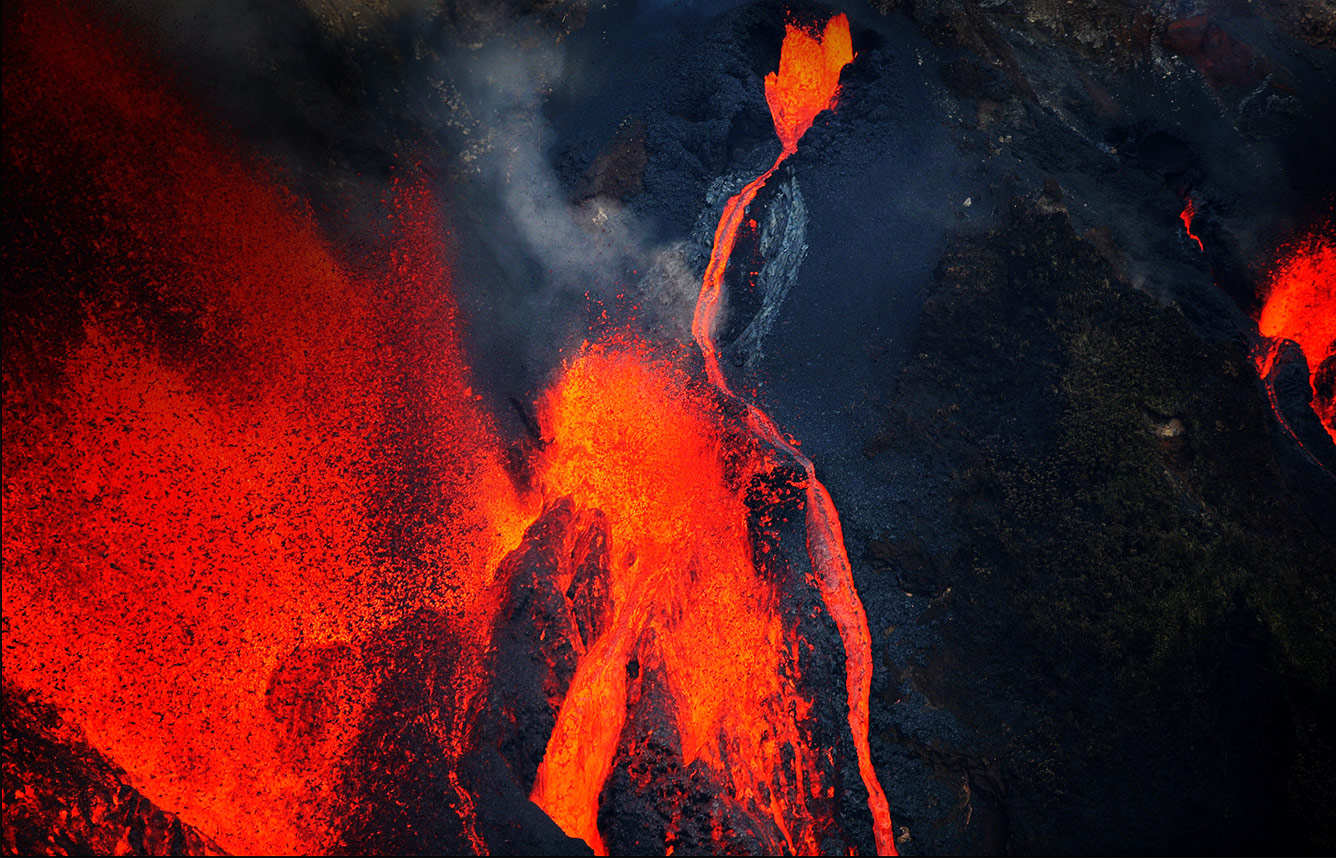
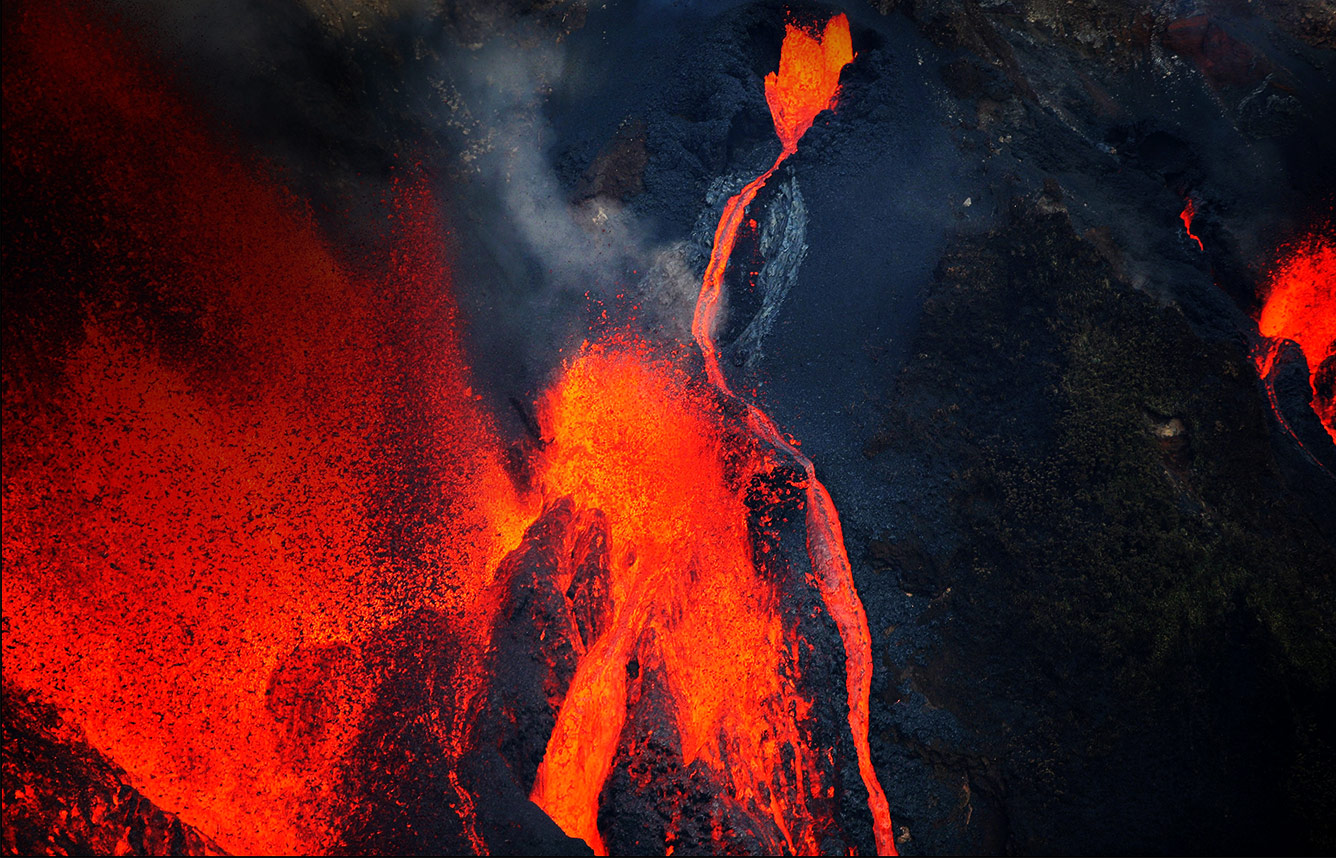
darkening fire image and adding links

Changed region(s): [[0.0, 0.2121, 0.3376, 0.6667]]

diff --git a/big-idea-portfolio/generosity-burnout/for-qa/index.html b/big-idea-portfolio/generosity-burnout/for-qa/index.html
@@ -457,7 +457,7 @@ h2 {
 			<!-- tile 1 -->
 			<div class="flex-col justify-between">
 				<div>
-					<h2><a href="https://..." target="_blank">&#8220;Collaborative Overload&#8221;
+					<h2><a href="https://hbr.org/2016/01/collaborative-overload" target="_blank">&#8220;Collaborative Overload&#8221;
 						<svg version="1.1" class="summary-icon" xmlns="http://www.w3.org/2000/svg"xmlns:xlink="http://www.w3.org/1999/xlink" x="0px" y="0px" viewBox="0 0 44 34" style="enable-background:new 0 0 44 34;" xml:space="preserve">
 							<polygon points="26.4,0.6 23.7,3.6 36,15 0,15 0,19 36,19 23.7,30.4 26.4,33.3 44,17 26.4,0.6 "/>
 				    	</svg>
@@ -466,7 +466,7 @@ h2 {
 					Collaboration is indeed the answer to many pressing business challenges. But in our research, we’ve found that more isn’t always better.
 					</p>
 
-					<h2><a href="https://hbr.org/..." target="_blank">&#8220;In the Company of Givers and Takers &#8221;
+					<h2><a href="http://hbr.org/2013/04/in-the-company-of-givers-and-takers" target="_blank">&#8220;In the Company of Givers and Takers &#8221;
 						<svg version="1.1" class="summary-icon" xmlns="http://www.w3.org/2000/svg"xmlns:xlink="http://www.w3.org/1999/xlink" x="0px" y="0px" viewBox="0 0 44 34" style="enable-background:new 0 0 44 34;" xml:space="preserve">
 							<polygon points="26.4,0.6 23.7,3.6 36,15 0,15 0,19 36,19 23.7,30.4 26.4,33.3 44,17 26.4,0.6 "/>
 				    	</svg>
@@ -484,7 +484,7 @@ h2 {
 			<div class="flex-col justify-between">
 				<div>
 					<h2>
-						<a href="https://hbr.org/..." target="_blank">&#8220;IDEO’s Culture of Helping &#8221;
+						<a href="http://hbr.org/2014/01/ideos-culture-of-helping" target="_blank">&#8220;IDEO’s Culture of Helping &#8221;
 							<svg version="1.1" class="summary-icon" xmlns="http://www.w3.org/2000/svg" xmlns:xlink="http://www.w3.org/1999/xlink" x="0px" y="0px"
 					viewBox="0 0 44 34" style="enable-background:new 0 0 44 34;" xml:space="preserve">
 						<polygon points="26.4,0.6 23.7,3.6 36,15 0,15 0,19 36,19 23.7,30.4 26.4,33.3 44,17 26.4,0.6 "/>
@@ -510,7 +510,7 @@ h2 {
 			<div class="flex-col justify-between">
 				<div>
 					<h2>
-						<a href="https://hbr.org/..." target="_blank">&#8220;The Limits of Empathy &#8221;
+						<a href="http://hbr.org/2016/01/the-limits-of-empathy" target="_blank">&#8220;The Limits of Empathy &#8221;
 						<svg version="1.1" class="summary-icon" xmlns="http://www.w3.org/2000/svg" xmlns:xlink="http://www.w3.org/1999/xlink" x="0px" y="0px"
 						viewBox="0 0 44 34" style="enable-background:new 0 0 44 34;" xml:space="preserve">
 							<polygon points="26.4,0.6 23.7,3.6 36,15 0,15 0,19 36,19 23.7,30.4 26.4,33.3 44,17 26.4,0.6 "/>
@@ -528,7 +528,7 @@ h2 {
 			<div class="flex-col justify-between">
 				<div>
 					<h2>
-						<a href="https://hbr.org/..." target="_blank">&#8220;Beating Burnout &#8221;
+						<a href="http://hbr.org/2016/11/beating-burnout" target="_blank">&#8220;Beating Burnout &#8221;
 						<svg version="1.1" class="summary-icon" xmlns="http://www.w3.org/2000/svg" xmlns:xlink="http://www.w3.org/1999/xlink" x="0px" y="0px"
 						viewBox="0 0 44 34" style="enable-background:new 0 0 44 34;" xml:space="preserve">
 							<polygon points="26.4,0.6 23.7,3.6 36,15 0,15 0,19 36,19 23.7,30.4 26.4,33.3 44,17 26.4,0.6 "/>
@@ -562,7 +562,7 @@ h2 {
 			<!-- tile 1 -->
 			<div class="flex-col justify-between">
 				<div>
-					<h2><a href="https://..." target="_blank"><em>Give and Take: Why Helping Others Drives Our Success</em>
+					<h2><a href="http://www.adamgrant.net/giveandtake" target="_blank"><em>Give and Take: Why Helping Others Drives Our Success</em>
 					<svg version="1.1" class="summary-icon" xmlns="http://www.w3.org/2000/svg" xmlns:xlink="http://www.w3.org/1999/xlink" x="0px" y="0px"
 						viewBox="0 0 44 34" style="enable-background:new 0 0 44 34;" xml:space="preserve">
 						<polygon points="26.4,0.6 23.7,3.6 36,15 0,15 0,19 36,19 23.7,30.4 26.4,33.3 44,17 26.4,0.6 "/>
@@ -579,7 +579,7 @@ h2 {
 			<!-- tile 2 -->
 			<div class="flex-col justify-between">
 				<div>
-					<h2><a href="https://amzn.com/B00ICS9VI4" target="_blank"><em>The No Asshole Rule: Building a Civilized Workplace and Surviving One That Isn’t</em>
+					<h2><a href="https://www.amazon.com/Asshole-Rule-Civilized-Workplace-Surviving/dp/0446698202" target="_blank"><em>The No Asshole Rule: Building a Civilized Workplace and Surviving One That Isn’t</em>
 					<svg version="1.1" class="summary-icon" xmlns="http://www.w3.org/2000/svg" xmlns:xlink="http://www.w3.org/1999/xlink" x="0px" y="0px"
 						viewBox="0 0 44 34" style="enable-background:new 0 0 44 34;" xml:space="preserve">
 						<polygon points="26.4,0.6 23.7,3.6 36,15 0,15 0,19 36,19 23.7,30.4 26.4,33.3 44,17 26.4,0.6 "/>
@@ -596,7 +596,7 @@ h2 {
 			<!-- tile 3 -->
 			<div class="flex-col justify-between">
 				<div>
-					<h2><a href="https:..." target="_blank"><em>Multipliers: How the Best Leaders Make Everyone Smarter</em>
+					<h2><a href="https://www.amazon.com/Multipliers-Best-Leaders-Everyone-Smarter/dp/0061964395" target="_blank"><em>Multipliers: How the Best Leaders Make Everyone Smarter</em>
 					<svg version="1.1" class="summary-icon" xmlns="http://www.w3.org/2000/svg" xmlns:xlink="http://www.w3.org/1999/xlink" x="0px" y="0px"
 						viewBox="0 0 44 34" style="enable-background:new 0 0 44 34;" xml:space="preserve">
 						<polygon points="26.4,0.6 23.7,3.6 36,15 0,15 0,19 36,19 23.7,30.4 26.4,33.3 44,17 26.4,0.6 "/>
@@ -614,7 +614,7 @@ h2 {
 			<!-- tile 4 -->
 			<div class="flex-col justify-between">
 				<div>
-					<h2><a href="https://..." target="_blank"><em>A Path Appears: Transforming Lives, Creating Opportunity</em>
+					<h2><a href="https://www.amazon.com/Path-Appears-Transforming-Creating-Opportunity/dp/0345805100" target="_blank"><em>A Path Appears: Transforming Lives, Creating Opportunity</em>
 					<svg version="1.1" class="summary-icon" xmlns="http://www.w3.org/2000/svg" xmlns:xlink="http://www.w3.org/1999/xlink" x="0px" y="0px"
 						viewBox="0 0 44 34" style="enable-background:new 0 0 44 34;" xml:space="preserve">
 						<polygon points="26.4,0.6 23.7,3.6 36,15 0,15 0,19 36,19 23.7,30.4 26.4,33.3 44,17 26.4,0.6 "/>
@@ -631,14 +631,14 @@ h2 {
 			<!-- tile 5 -->
 			<div class="flex-col justify-between">
 				<div>
-					<h2><a href="https://..." target="_blank"><em>The Taking Tree</em>
+					<h2><a href="http://www.amazon.com/Taking-Tree-Selfish-Parody/dp/1442407638" target="_blank"><em>The Taking Tree</em>
 					<svg version="1.1" class="summary-icon" xmlns="http://www.w3.org/2000/svg" xmlns:xlink="http://www.w3.org/1999/xlink" x="0px" y="0px"
 						viewBox="0 0 44 34" style="enable-background:new 0 0 44 34;" xml:space="preserve">
 						<polygon points="26.4,0.6 23.7,3.6 36,15 0,15 0,19 36,19 23.7,30.4 26.4,33.3 44,17 26.4,0.6 "/>
 						</svg></a>
 					</h2>
 					<p class="summary">by <span class="byline">Shrill Travesty</span>.
-					Although Shel Silverstein’s children’s book The Giving Tree is a classic, we have a problem with it. It teaches kids to give to takers, and to give selflessly until they literally have nothing left. This parody is a fun alternative where the tree gets even.
+					Although Shel Silverstein’s children’s book <em>The Giving Tree</em> is a classic, we have a problem with it. It teaches kids to give to takers, and to give selflessly until they literally have nothing left. This parody is a fun alternative where the tree gets even.
 					</p>
 				</div>
 			</div>
@@ -669,7 +669,7 @@ h2 {
 			<!-- tile 1 -->
 			<div class="flex-col justify-between">
 				<div>
-					<h2><a href="https://hbr.org..." target="_blank">&#8220;IdeaCast: The Big Benefits of a Little Thanks&#8221;
+					<h2><a href="http://hbr.org/ideacast/2013/11/the-big-benefits-of-a-little-t" target="_blank">&#8220;IdeaCast: The Big Benefits of a Little Thanks&#8221;
 					<svg version="1.1" class="summary-icon" xmlns="http://www.w3.org/2000/svg" xmlns:xlink="http://www.w3.org/1999/xlink" x="0px" y="0px"
 						viewBox="0 0 44 34" style="enable-background:new 0 0 44 34;" xml:space="preserve">
 						<polygon points="26.4,0.6 23.7,3.6 36,15 0,15 0,19 36,19 23.7,30.4 26.4,33.3 44,17 26.4,0.6 "/>
@@ -679,7 +679,7 @@ h2 {
 					Small expressions of gratitude have a powerful impact on our willingness to help others.  
 					</p>
 
-					<h2><a href="https://hbr.org..." target="_blank">&#8220;Successful Givers, Toxic Takers, and the Life We Spend at Work&#8221;
+					<h2><a href="http://www.onbeing.org/program/adam-grant-successful-givers-toxic-takers-and-the-life-we-spend-at-work/8058" target="_blank">&#8220;Successful Givers, Toxic Takers, and the Life We Spend at Work&#8221;
 					<svg version="1.1" class="summary-icon" xmlns="http://www.w3.org/2000/svg" xmlns:xlink="http://www.w3.org/1999/xlink" x="0px" y="0px"
 						viewBox="0 0 44 34" style="enable-background:new 0 0 44 34;" xml:space="preserve">
 						<polygon points="26.4,0.6 23.7,3.6 36,15 0,15 0,19 36,19 23.7,30.4 26.4,33.3 44,17 26.4,0.6 "/>
@@ -696,7 +696,7 @@ h2 {
 			<!-- tile 2 -->
 			<div class="flex-col justify-between">
 				<div>
-					<h2><a href="https://hbr.org/..." target="_blank">&#8220;Why Some People Are More Altruistic Than Others&#8221;
+					<h2><a href="http://www.ted.com/talks/abigail_marsh_why_some_people_are_more_altruistic_than_others" target="_blank">&#8220;Why Some People Are More Altruistic Than Others&#8221;
 					<svg version="1.1" class="summary-icon" xmlns="http://www.w3.org/2000/svg" xmlns:xlink="http://www.w3.org/1999/xlink" x="0px" y="0px"
 						viewBox="0 0 44 34" style="enable-background:new 0 0 44 34;" xml:space="preserve">
 						<polygon points="26.4,0.6 23.7,3.6 36,15 0,15 0,19 36,19 23.7,30.4 26.4,33.3 44,17 26.4,0.6 "/>
@@ -713,7 +713,7 @@ h2 {
 			<!-- tile 3 -->
 			<div class="flex-col justify-between">
 				<div>
-					<h2><a href="https://hbr.org/..." target="_blank">&#8220;Research Suggests Generosity Is Hardwired into Our Brains&#8221;
+					<h2><a href="http://www.npr.org/2014/12/24/372837173/research-suggests-generosity-is-hardwired-into-our-brains" target="_blank">&#8220;Research Suggests Generosity Is Hardwired into Our Brains&#8221;
 					<svg version="1.1" class="summary-icon" xmlns="http://www.w3.org/2000/svg" xmlns:xlink="http://www.w3.org/1999/xlink" x="0px" y="0px"
 						viewBox="0 0 44 34" style="enable-background:new 0 0 44 34;" xml:space="preserve">
 						<polygon points="26.4,0.6 23.7,3.6 36,15 0,15 0,19 36,19 23.7,30.4 26.4,33.3 44,17 26.4,0.6 "/>
@@ -730,7 +730,7 @@ h2 {
 			<!-- tile 4 -->
 			<div class="flex-col justify-between">
 				<div>
-					<h2><a href="https://hbr.org/..." target="_blank">Assessment: Are You Paying It Forward to the Next Generation? 
+					<h2><a href="http://hbr.org/web/assessment/2014/06/are-you-paying-it-forward-to-the-next-generation" target="_blank">Assessment: Are You Paying It Forward to the Next Generation? 
 					<svg version="1.1" class="summary-icon" xmlns="http://www.w3.org/2000/svg" xmlns:xlink="http://www.w3.org/1999/xlink" x="0px" y="0px"
 						viewBox="0 0 44 34" style="enable-background:new 0 0 44 34;" xml:space="preserve">
 						<polygon points="26.4,0.6 23.7,3.6 36,15 0,15 0,19 36,19 23.7,30.4 26.4,33.3 44,17 26.4,0.6 "/>
@@ -768,7 +768,7 @@ h2 {
 			<div class="flex-col justify-between">
 				<div>
 					<h2>
-						<a href="..." target="_blank">&#8220;“Well, I’m Tired of Tryin’!” &#8221;
+						<a href="http://psycnet.apa.org/psycinfo/2014-32645-001/" target="_blank">&#8220;“Well, I’m Tired of Tryin’!” &#8221;
 						<svg version="1.1" class="summary-icon" xmlns="http://www.w3.org/2000/svg" xmlns:xlink="http://www.w3.org/1999/xlink" x="0px" y="0px"
 						viewBox="0 0 44 34" style="enable-background:new 0 0 44 34;" xml:space="preserve">
 						<polygon points="26.4,0.6 23.7,3.6 36,15 0,15 0,19 36,19 23.7,30.4 26.4,33.3 44,17 26.4,0.6 "/>
@@ -787,7 +787,7 @@ h2 {
 			<div class="flex-col justify-between">
 				<div>
 					<h2>
-						<a href="http://www.nytimes.com/2016/05/24/business/elvis-airlines-flight-attendants-passengers.html?emc=eta1&_r=0" target="_blank">&#8220;Organizational Citizenship Behavior and Career Outcomes: The Cost of Being a “Good Citizen”&#8221;
+						<a href="http://jom.sagepub.com/content/39/4/958.abstract" target="_blank">&#8220;Organizational Citizenship Behavior and Career Outcomes: The Cost of Being a “Good Citizen”&#8221;
 						<svg version="1.1" class="summary-icon" xmlns="http://www.w3.org/2000/svg" xmlns:xlink="http://www.w3.org/1999/xlink" x="0px" y="0px"
 						viewBox="0 0 44 34" style="enable-background:new 0 0 44 34;" xml:space="preserve">
 						<polygon points="26.4,0.6 23.7,3.6 36,15 0,15 0,19 36,19 23.7,30.4 26.4,33.3 44,17 26.4,0.6 "/>
@@ -804,7 +804,7 @@ h2 {
 			<div class="flex-col justify-between">
 				<div>
 					<h2>
-						<a href="http://www.theonion.com/blogpost/im-quite-eccentric-within-accepted-societal-norms-11346" target="_blank">&#8220;Research: Yes, Being Helpful is Tiring&#8221;
+						<a href="https://hbr.org/2016/09/research-yes-being-helpful-is-tiring" target="_blank">&#8220;Research: Yes, Being Helpful is Tiring&#8221;
 						<svg version="1.1" class="summary-icon" xmlns="http://www.w3.org/2000/svg" xmlns:xlink="http://www.w3.org/1999/xlink" x="0px" y="0px"
 						viewBox="0 0 44 34" style="enable-background:new 0 0 44 34;" xml:space="preserve">
 						<polygon points="26.4,0.6 23.7,3.6 36,15 0,15 0,19 36,19 23.7,30.4 26.4,33.3 44,17 26.4,0.6 "/>
@@ -824,7 +824,7 @@ h2 {
 			<div class="flex-col justify-between">
 				<div>
 					<h2>
-						<a href="http://www.theonion.com/blogpost/im-quite-eccentric-within-accepted-societal-norms-11346" target="_blank">&#8220;Being “Otherish”: Resolving the False Choice Between Personal and Prosocial Goals&#8221;
+						<a href="https://books.google.com/books?id=NE3fBgAAQBAJ&pg=PA26&lpg=PA26&dq=being+otherish+rebele&source=bl&ots=unf4THpyHm&sig=2v3O-id8z-elyvRP1IWGulRYFsI&hl=en&sa=X&ved=0ahUKEwiNrp66-qvQAhVoAcAKHZdPCVoQ6AEIPDAF#v=onepage&q=being%20otherish%20rebele&f=fals" target="_blank">&#8220;Being “Otherish”: Resolving the False Choice Between Personal and Prosocial Goals&#8221;
 						<svg version="1.1" class="summary-icon" xmlns="http://www.w3.org/2000/svg" xmlns:xlink="http://www.w3.org/1999/xlink" x="0px" y="0px"
 						viewBox="0 0 44 34" style="enable-background:new 0 0 44 34;" xml:space="preserve">
 						<polygon points="26.4,0.6 23.7,3.6 36,15 0,15 0,19 36,19 23.7,30.4 26.4,33.3 44,17 26.4,0.6 "/>
